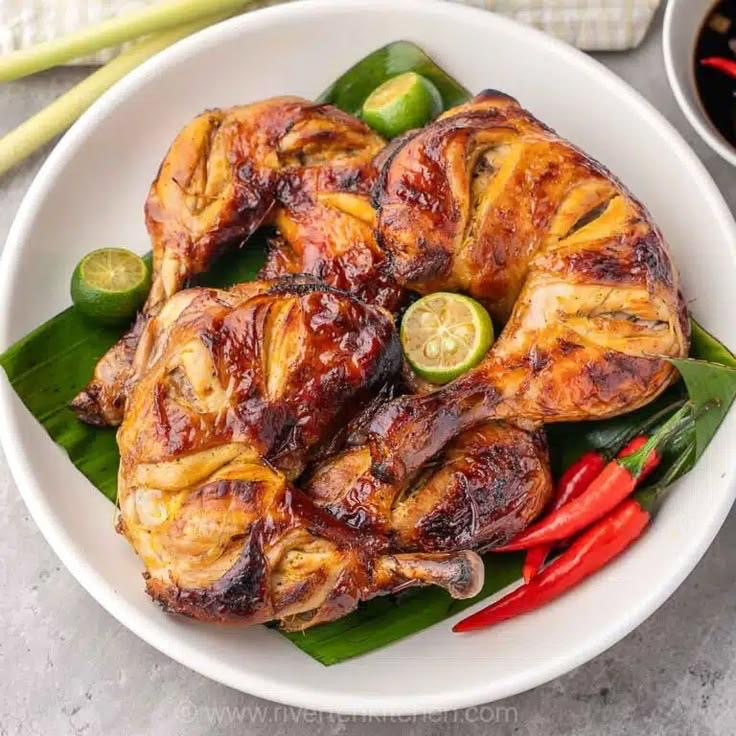
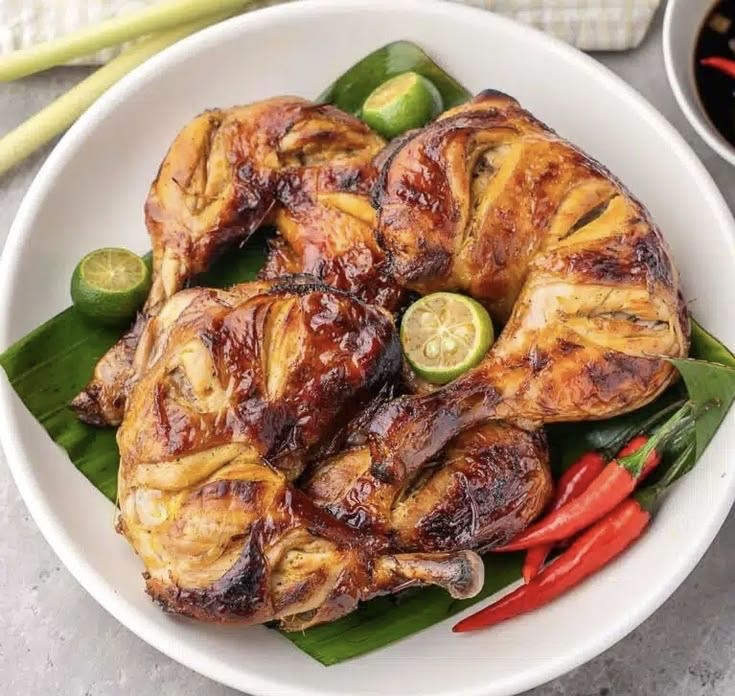
TSS menu: replace Chicken Inasal photo (no watermark)
Claude-Session: https://claude.ai/code/session_015uw41X1iwdphPKrgw5i7dh

diff --git a/tss.html b/tss.html
@@ -70,7 +70,7 @@
     <h2 class="section-title reveal">Sa Ihawan</h2>
     <p class="section-kicker reveal">Mga paborito, inalagaan.</p>
     <div class="menu-list">
-      <div class="menu-item reveal"><img class="menu-photo" src="/assets/img/tss-pork-bbq.jpg" alt="Pork BBQ na iniihaw sa uling" width="736" height="736" loading="lazy"><h3>Pork BBQ</h3><p>Matamis-alat na timpla, may konting sunog sa gilid. Yung klasik.</p></div><div class="menu-item reveal"><img class="menu-photo" src="/assets/img/tss-chicken-inasal.jpg" alt="Chicken inasal na may calamansi at sili" width="736" height="736" loading="lazy"><h3>Chicken Inasal</h3><p>Calamansi, tanglad at atsuete. Pahid ng mantika ng achuete habang iniihaw.</p></div><div class="menu-item reveal"><img class="menu-photo" src="/assets/img/tss-liempo.jpg" alt="Liempo na iniihaw sa uling" width="736" height="736" loading="lazy"><h3>Liempo</h3><p>Malutong ang balat, malambot ang laman. Bagay sa kanin at atchara.</p></div><div class="menu-item reveal"><img class="menu-photo" src="/assets/img/tss-isaw.jpg" alt="Isaw na inihaw, nakahain sa dahon ng saging" width="736" height="1104" loading="lazy"><h3>Isaw</h3><p>Nilinis nang maayos, inihaw hanggang lumutong. Sawsaw sa suka, tapos ulit.</p></div><div class="menu-item reveal"><img class="menu-photo" src="/assets/img/tss-betamax.jpg" alt="Betamax na iniihaw sa uling" width="736" height="541" loading="lazy"><h3>Tenga at Betamax</h3><p>Para sa mga suki na alam na ang gusto nila.</p></div><div class="menu-item reveal"><div class="ph tss" data-label="Placeholder · Bilao ng Ihaw" role="img" aria-label="Placeholder · Bilao ng Ihaw"></div><h3>Bilao ng Ihaw</h3><p>Halo-halong ihaw para sa barkada o pamilya. Pang-salu-salo talaga.</p></div>
+      <div class="menu-item reveal"><img class="menu-photo" src="/assets/img/tss-pork-bbq.jpg" alt="Pork BBQ na iniihaw sa uling" width="736" height="736" loading="lazy"><h3>Pork BBQ</h3><p>Matamis-alat na timpla, may konting sunog sa gilid. Yung klasik.</p></div><div class="menu-item reveal"><img class="menu-photo" src="/assets/img/tss-chicken-inasal.jpg" alt="Chicken inasal na may calamansi at sili" width="735" height="696" loading="lazy"><h3>Chicken Inasal</h3><p>Calamansi, tanglad at atsuete. Pahid ng mantika ng achuete habang iniihaw.</p></div><div class="menu-item reveal"><img class="menu-photo" src="/assets/img/tss-liempo.jpg" alt="Liempo na iniihaw sa uling" width="736" height="736" loading="lazy"><h3>Liempo</h3><p>Malutong ang balat, malambot ang laman. Bagay sa kanin at atchara.</p></div><div class="menu-item reveal"><img class="menu-photo" src="/assets/img/tss-isaw.jpg" alt="Isaw na inihaw, nakahain sa dahon ng saging" width="736" height="1104" loading="lazy"><h3>Isaw</h3><p>Nilinis nang maayos, inihaw hanggang lumutong. Sawsaw sa suka, tapos ulit.</p></div><div class="menu-item reveal"><img class="menu-photo" src="/assets/img/tss-betamax.jpg" alt="Betamax na iniihaw sa uling" width="736" height="541" loading="lazy"><h3>Tenga at Betamax</h3><p>Para sa mga suki na alam na ang gusto nila.</p></div><div class="menu-item reveal"><div class="ph tss" data-label="Placeholder · Bilao ng Ihaw" role="img" aria-label="Placeholder · Bilao ng Ihaw"></div><h3>Bilao ng Ihaw</h3><p>Halo-halong ihaw para sa barkada o pamilya. Pang-salu-salo talaga.</p></div>
     </div>
   </div>
 </section>
